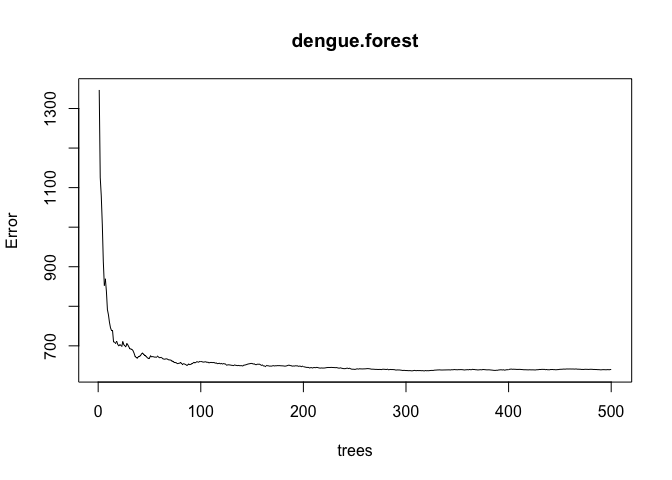
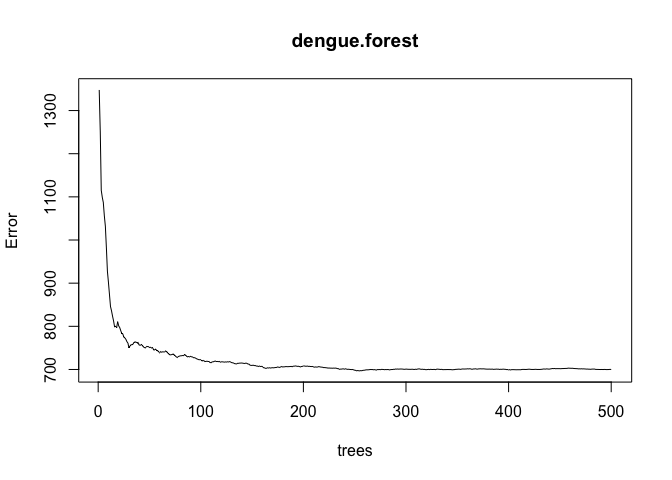
made changes to rmd and md

diff --git a/ECO395_Exercises_03.md b/ECO395_Exercises_03.md
@@ -31,9 +31,9 @@ might actually reduce the amount of potential crime victims in
 Washington D.C. during high alert times. So they accounted for that in
 the second model to see if would change their results.
 
-<b>4. Below I am showing you “Table 4” from the researchers’ paper. Just
+**4. Below I am showing you “Table 4” from the researchers’ paper. Just
 focus on the first column of the table. Can you describe the model being
-estimated here? What is the conclusion?</b>
+estimated here? What is the conclusion?**
 
 The model measures the reduction in crime in Washington D.C. during high
 alert days. The model also uses a dummy for crime incidents in District
@@ -70,7 +70,6 @@ prune_1se = function(my_tree) {
 }
 
 dengue.tree_prune = prune_1se(dengue.tree)
-
 rpart.plot(dengue.tree, digits=-5, type=4, extra=1)
 ```
 
@@ -84,88 +83,52 @@ plot(dengue.forest)
 ```
 
 ![](ECO395_Exercises_03_files/figure-markdown_github/unnamed-chunk-3-1.png)
+\#\#\# Gradient boost
 
 ``` r
-# Gradient boost
 dengue_boost = gbm(total_cases ~ season + city + specific_humidity + precipitation_amt + tdtr_k + precip_amt_kg_per_m2  + dew_point_temp_k + relative_humidity_percent, data=dengue_train, interaction.depth=4, n.trees=500, shrinkage=.05)
 ```
 
     ## Distribution not specified, assuming gaussian ...
 
-``` r
-rmse(dengue.tree, dengue_test)
-```
+    ##              Model     RMSE
+    ## 1             Tree 26.73227
+    ## 2      Pruned Tree 30.00697
+    ## 3    Random Forest 26.51143
+    ## 4 Gradient Boosted 28.30884
 
-    ## [1] 32.33492
-
-``` r
-rmse(dengue.tree_prune, dengue_test)
-```
-
-    ## [1] 32.28888
-
-``` r
-rmse(dengue.forest, dengue_test)
-```
-
-    ## [1] 30.24063
-
-``` r
-rmse(dengue_boost, dengue_test)
-```
-
-    ## Using 500 trees...
-
-    ## [1] 31.39644
-
-``` r
-partialPlot(dengue.forest, dengue_test,  'specific_humidity', las=1)
-```
-
-![](ECO395_Exercises_03_files/figure-markdown_github/unnamed-chunk-5-1.png)
-
-``` r
-partialPlot(dengue.forest, dengue_test, 'precipitation_amt', las=1)
-```
-
-![](ECO395_Exercises_03_files/figure-markdown_github/unnamed-chunk-5-2.png)
-
-``` r
-partialPlot(dengue.forest, dengue_test, 'dew_point_temp_k', las=1)
-```
-
-![](ECO395_Exercises_03_files/figure-markdown_github/unnamed-chunk-5-3.png)
+![](ECO395_Exercises_03_files/figure-markdown_github/unnamed-chunk-5-1.png)![](ECO395_Exercises_03_files/figure-markdown_github/unnamed-chunk-5-2.png)![](ECO395_Exercises_03_files/figure-markdown_github/unnamed-chunk-5-3.png)
 
 ## Predictive model building: green certification
 
     ## Distribution not specified, assuming gaussian ...
 
-    ## [1] 999.8245
+    ## [1] 1016.602
 
-    ## [1] 993.2966
+    ## [1] 1015.298
 
-    ## [1] 1013.186
+    ## [1] 1003.596
 
-    ## [1] 1021.26
+    ## [1] 1065.347
 
-    ## [1] 887.653
+    ## [1] 701.1192
 
-    ## [1] 988.9847
+    ## [1] 892.8241
 
 ## Predictive model building: California housing
 
     ## Distribution not specified, assuming gaussian ...
 
-    ## [1] 73935.58
+    ## [1] 75526.62
 
-    ## [1] 72638.76
+    ## [1] 74339.97
 
-    ## [1] 76999.72
+    ## [1] 76867.6
 
-    ## [1] 77565.27
+    ## [1] 77760.29
 
-    ## [1] 63763.67
+    ## [1] 64330.22
 
-    ## [1] 64831.83
+    ## [1] 65758.32
 
 ![](ECO395_Exercises_03_files/figure-markdown_github/unnamed-chunk-7-1.png)![](ECO395_Exercises_03_files/figure-markdown_github/unnamed-chunk-7-2.png)![](ECO395_Exercises_03_files/figure-markdown_github/unnamed-chunk-7-3.png)
